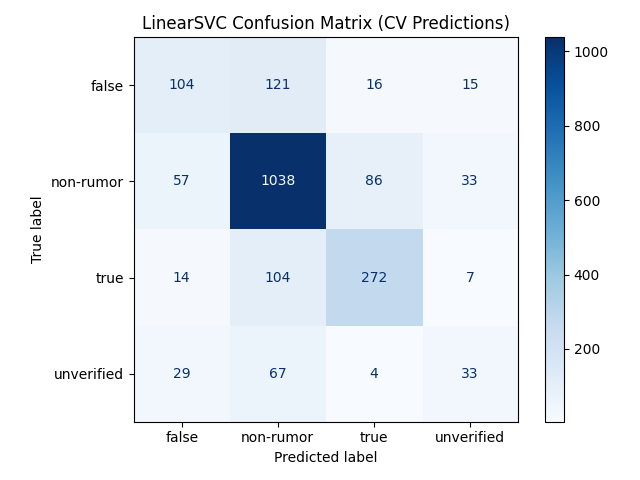
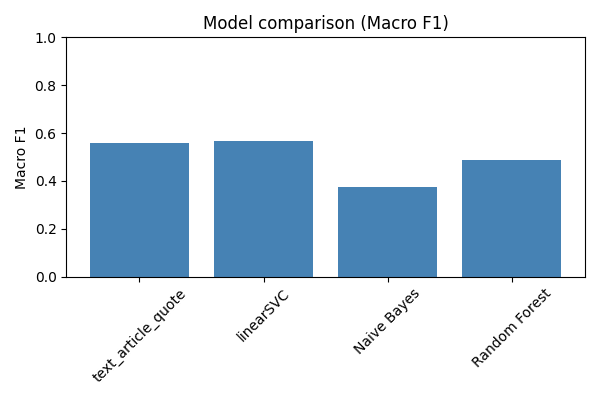
some minor corrections we found

diff --git a/classification/model_build.py b/classification/model_build.py
@@ -4,10 +4,9 @@ import pandas as pd
 from sklearn.compose import ColumnTransformer
 from sklearn.ensemble import RandomForestClassifier
 from sklearn.feature_extraction.text import TfidfVectorizer
-from sklearn.feature_selection import SelectKBest, f_classif
-from sklearn.model_selection import StratifiedKFold, cross_val_predict, cross_validate, train_test_split
+from sklearn.model_selection import StratifiedKFold, cross_val_predict, cross_validate
 from sklearn.linear_model import LogisticRegression
-from sklearn.metrics import ConfusionMatrixDisplay, classification_report, confusion_matrix
+from sklearn.metrics import ConfusionMatrixDisplay, classification_report
 from sklearn.naive_bayes import MultinomialNB
 from sklearn.pipeline import Pipeline
 from time import time